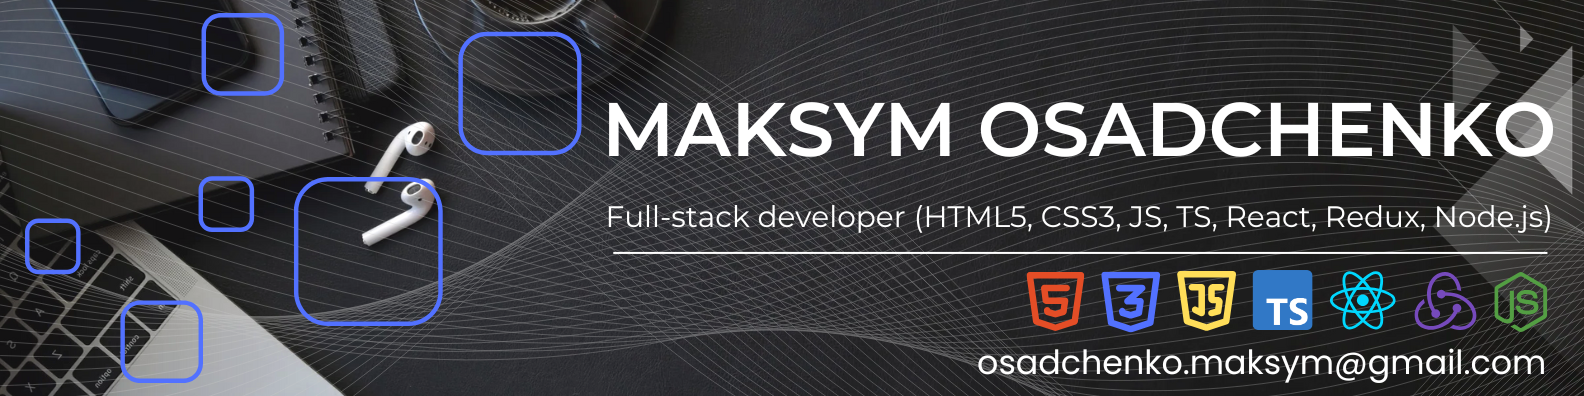
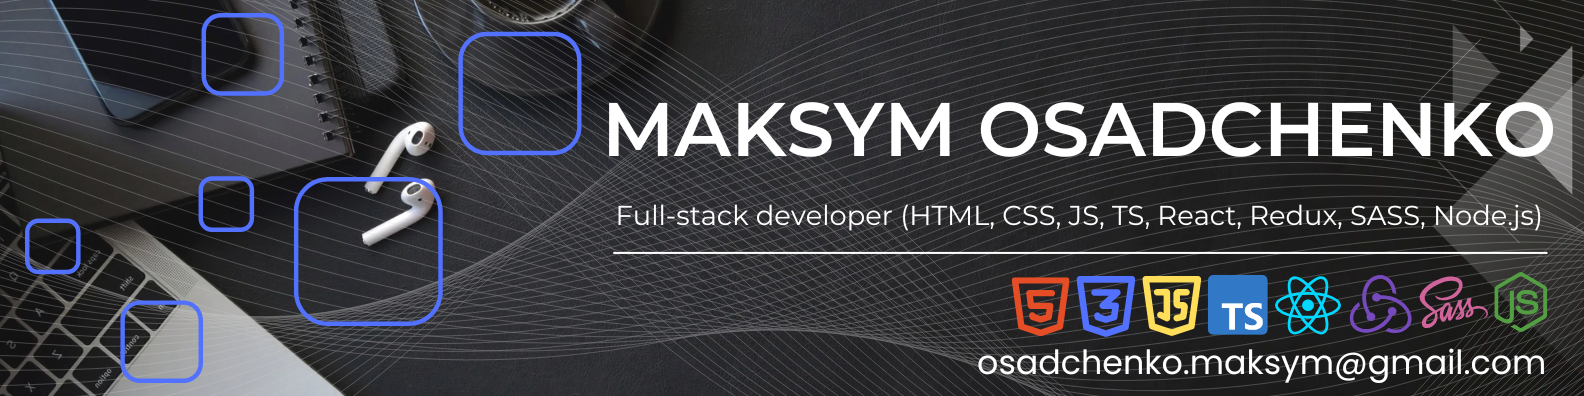
edit

Changed region(s): [[0.6187, 0.6667, 0.959, 0.8485], [0.3712, 0.5152, 0.9899, 0.5758]]

diff --git a/README.md b/README.md
@@ -39,8 +39,14 @@ Furthermore, I always try to optimize my work to be more efficient. I strive to 
     <a href="https://redux.js.org/">
       <img src="img/redux.svg" alt="redux" width="50">
     </a>
+    <a href="https://sass-lang.com/">
+      <img src="img/sass.svg" alt="redux" width="65">
+    </a>
     <a href="https://nodejs.org/">
       <img src="img/node-js.svg" alt="redux" width="56">
+    </a>
+    <a href="https://www.mongodb.com/">
+      <img src="img/mongodb.svg" alt="redux" width="65">
     </a>
     <a href="https://git-scm.com/">
       <img src="img/git.svg" alt="git" width="55">
